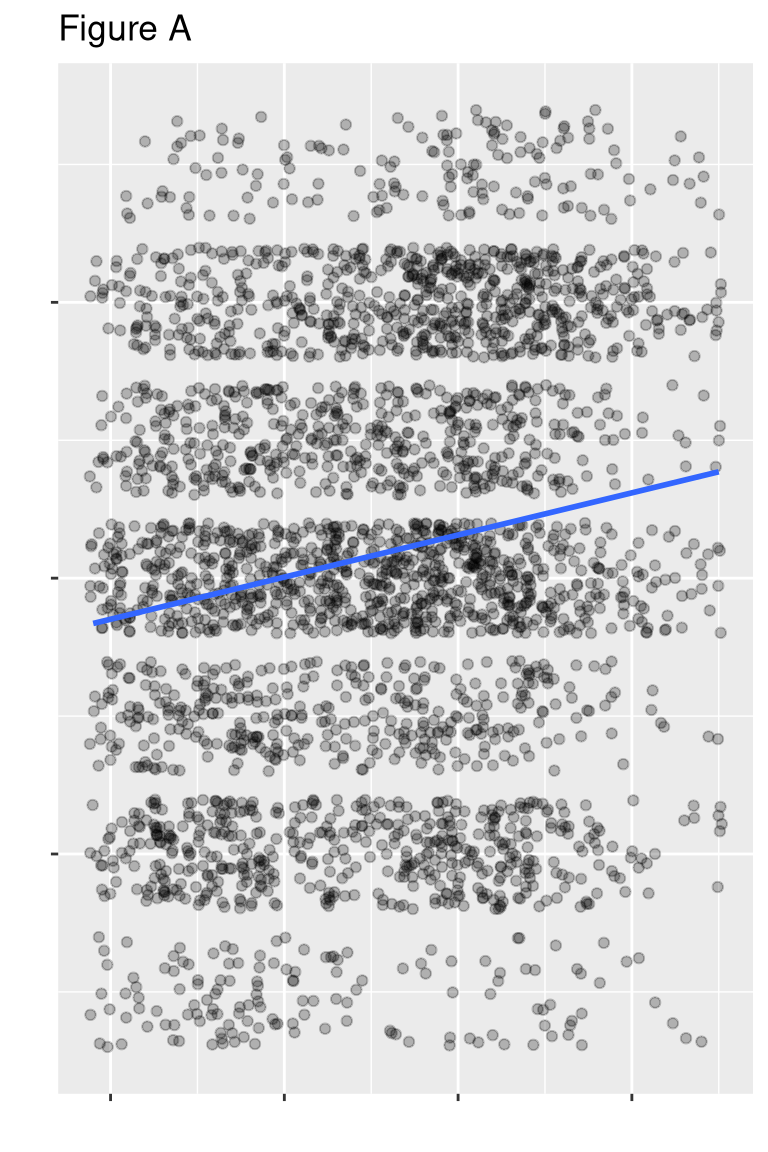
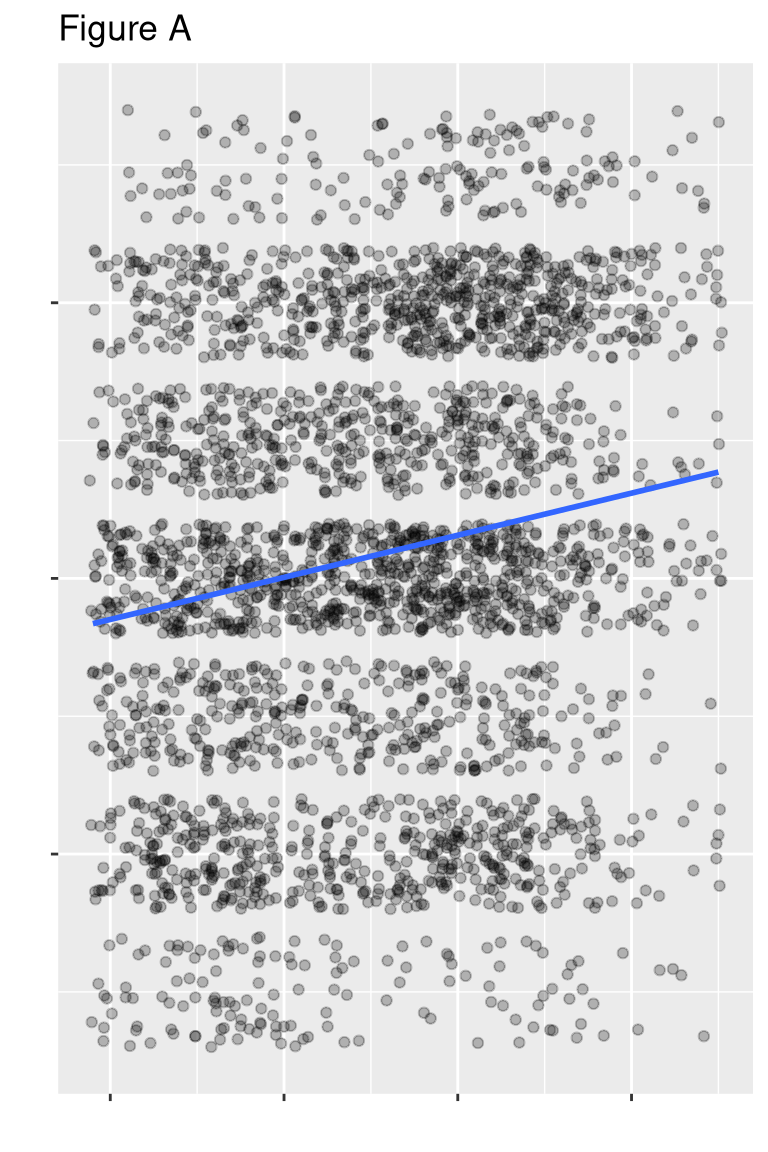
website update on 2021-03-04 08:51:20

diff --git a/docs/session_06.html b/docs/session_06.html
@@ -631,12 +631,12 @@ div.tocify {
 <span id="cb3-12"><a href="#cb3-12" aria-hidden="true" tabindex="-1"></a></span>
 <span id="cb3-13"><a href="#cb3-13" aria-hidden="true" tabindex="-1"></a></span>
 <span id="cb3-14"><a href="#cb3-14" aria-hidden="true" tabindex="-1"></a><span class="co"># Last time we ended by checking the relationship between ideology and age</span></span>
-<span id="cb3-15"><a href="#cb3-15" aria-hidden="true" tabindex="-1"></a><span class="fu">ggplot</span>(tb, <span class="fu">aes</span>(<span class="at">x=</span>ideology, <span class="at">y=</span>age)) <span class="sc">+</span></span>
+<span id="cb3-15"><a href="#cb3-15" aria-hidden="true" tabindex="-1"></a><span class="fu">ggplot</span>(tb, <span class="fu">aes</span>(<span class="at">y=</span>ideology, <span class="at">x=</span>age)) <span class="sc">+</span></span>
 <span id="cb3-16"><a href="#cb3-16" aria-hidden="true" tabindex="-1"></a>  <span class="fu">geom_jitter</span>() <span class="sc">+</span></span>
 <span id="cb3-17"><a href="#cb3-17" aria-hidden="true" tabindex="-1"></a>  <span class="fu">theme_light</span>()</span>
 <span id="cb3-18"><a href="#cb3-18" aria-hidden="true" tabindex="-1"></a></span>
 <span id="cb3-19"><a href="#cb3-19" aria-hidden="true" tabindex="-1"></a><span class="co"># Let&#39;s add the line of best fit</span></span>
-<span id="cb3-20"><a href="#cb3-20" aria-hidden="true" tabindex="-1"></a><span class="fu">ggplot</span>(tb, <span class="fu">aes</span>(<span class="at">x=</span>ideology, <span class="at">y=</span>age)) <span class="sc">+</span></span>
+<span id="cb3-20"><a href="#cb3-20" aria-hidden="true" tabindex="-1"></a><span class="fu">ggplot</span>(tb, <span class="fu">aes</span>(<span class="at">y=</span>ideology, <span class="at">x=</span>age)) <span class="sc">+</span></span>
 <span id="cb3-21"><a href="#cb3-21" aria-hidden="true" tabindex="-1"></a>  <span class="fu">geom_jitter</span>() <span class="sc">+</span></span>
 <span id="cb3-22"><a href="#cb3-22" aria-hidden="true" tabindex="-1"></a>  <span class="fu">geom_smooth</span>(<span class="at">method=</span><span class="st">&quot;lm&quot;</span>) <span class="sc">+</span></span>
 <span id="cb3-23"><a href="#cb3-23" aria-hidden="true" tabindex="-1"></a>  <span class="fu">theme_light</span>()</span>
